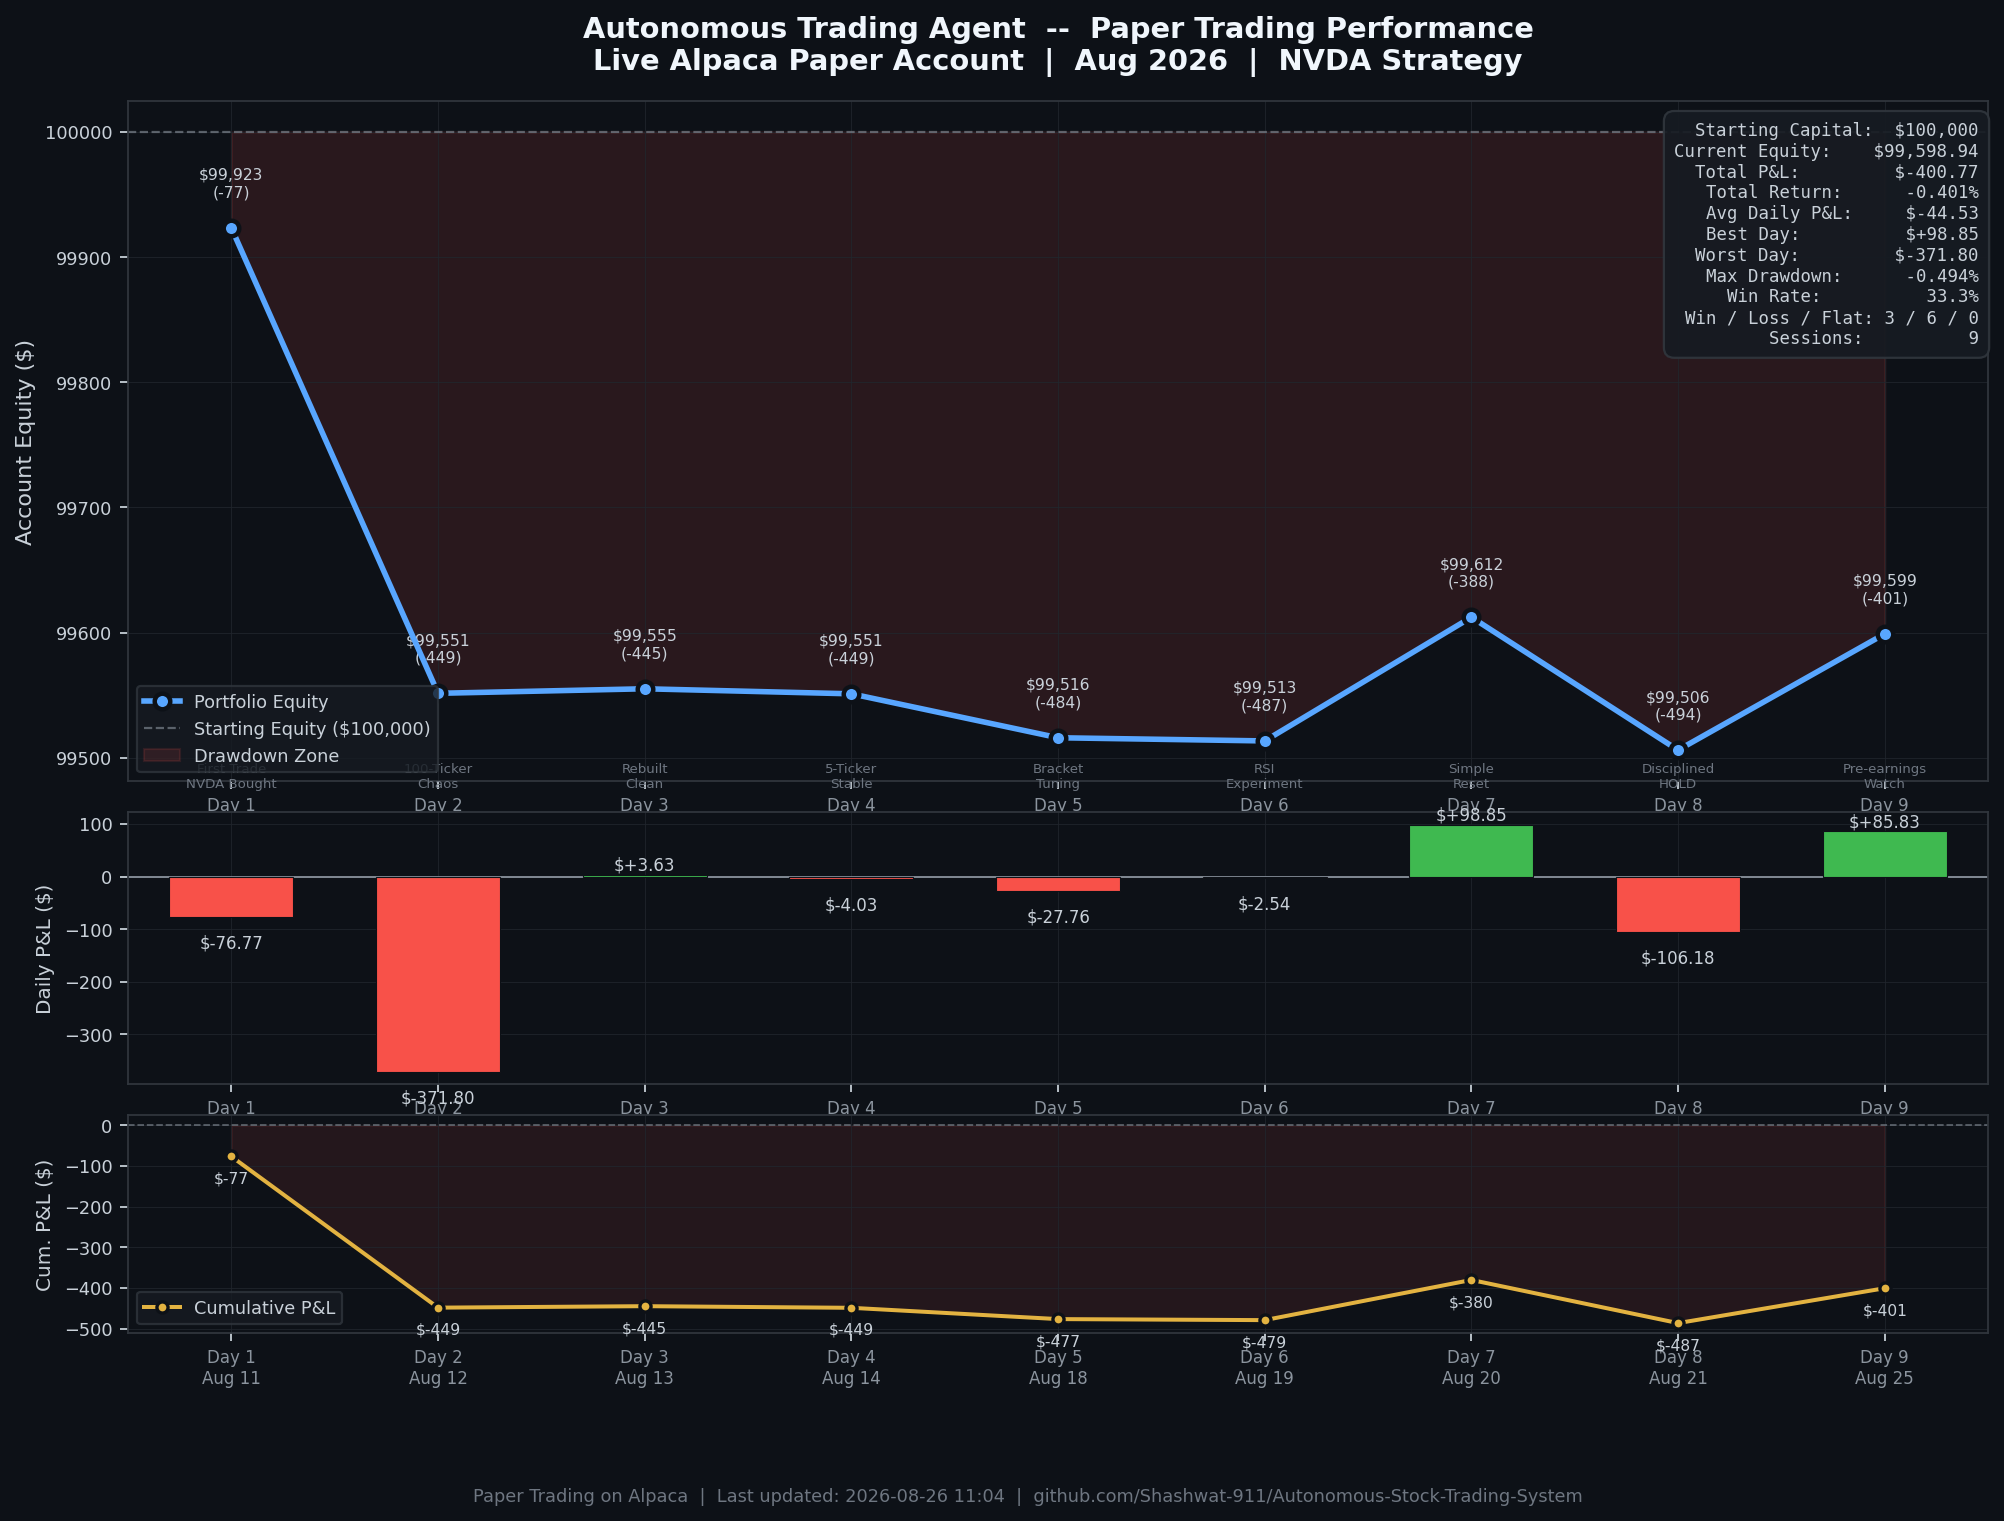
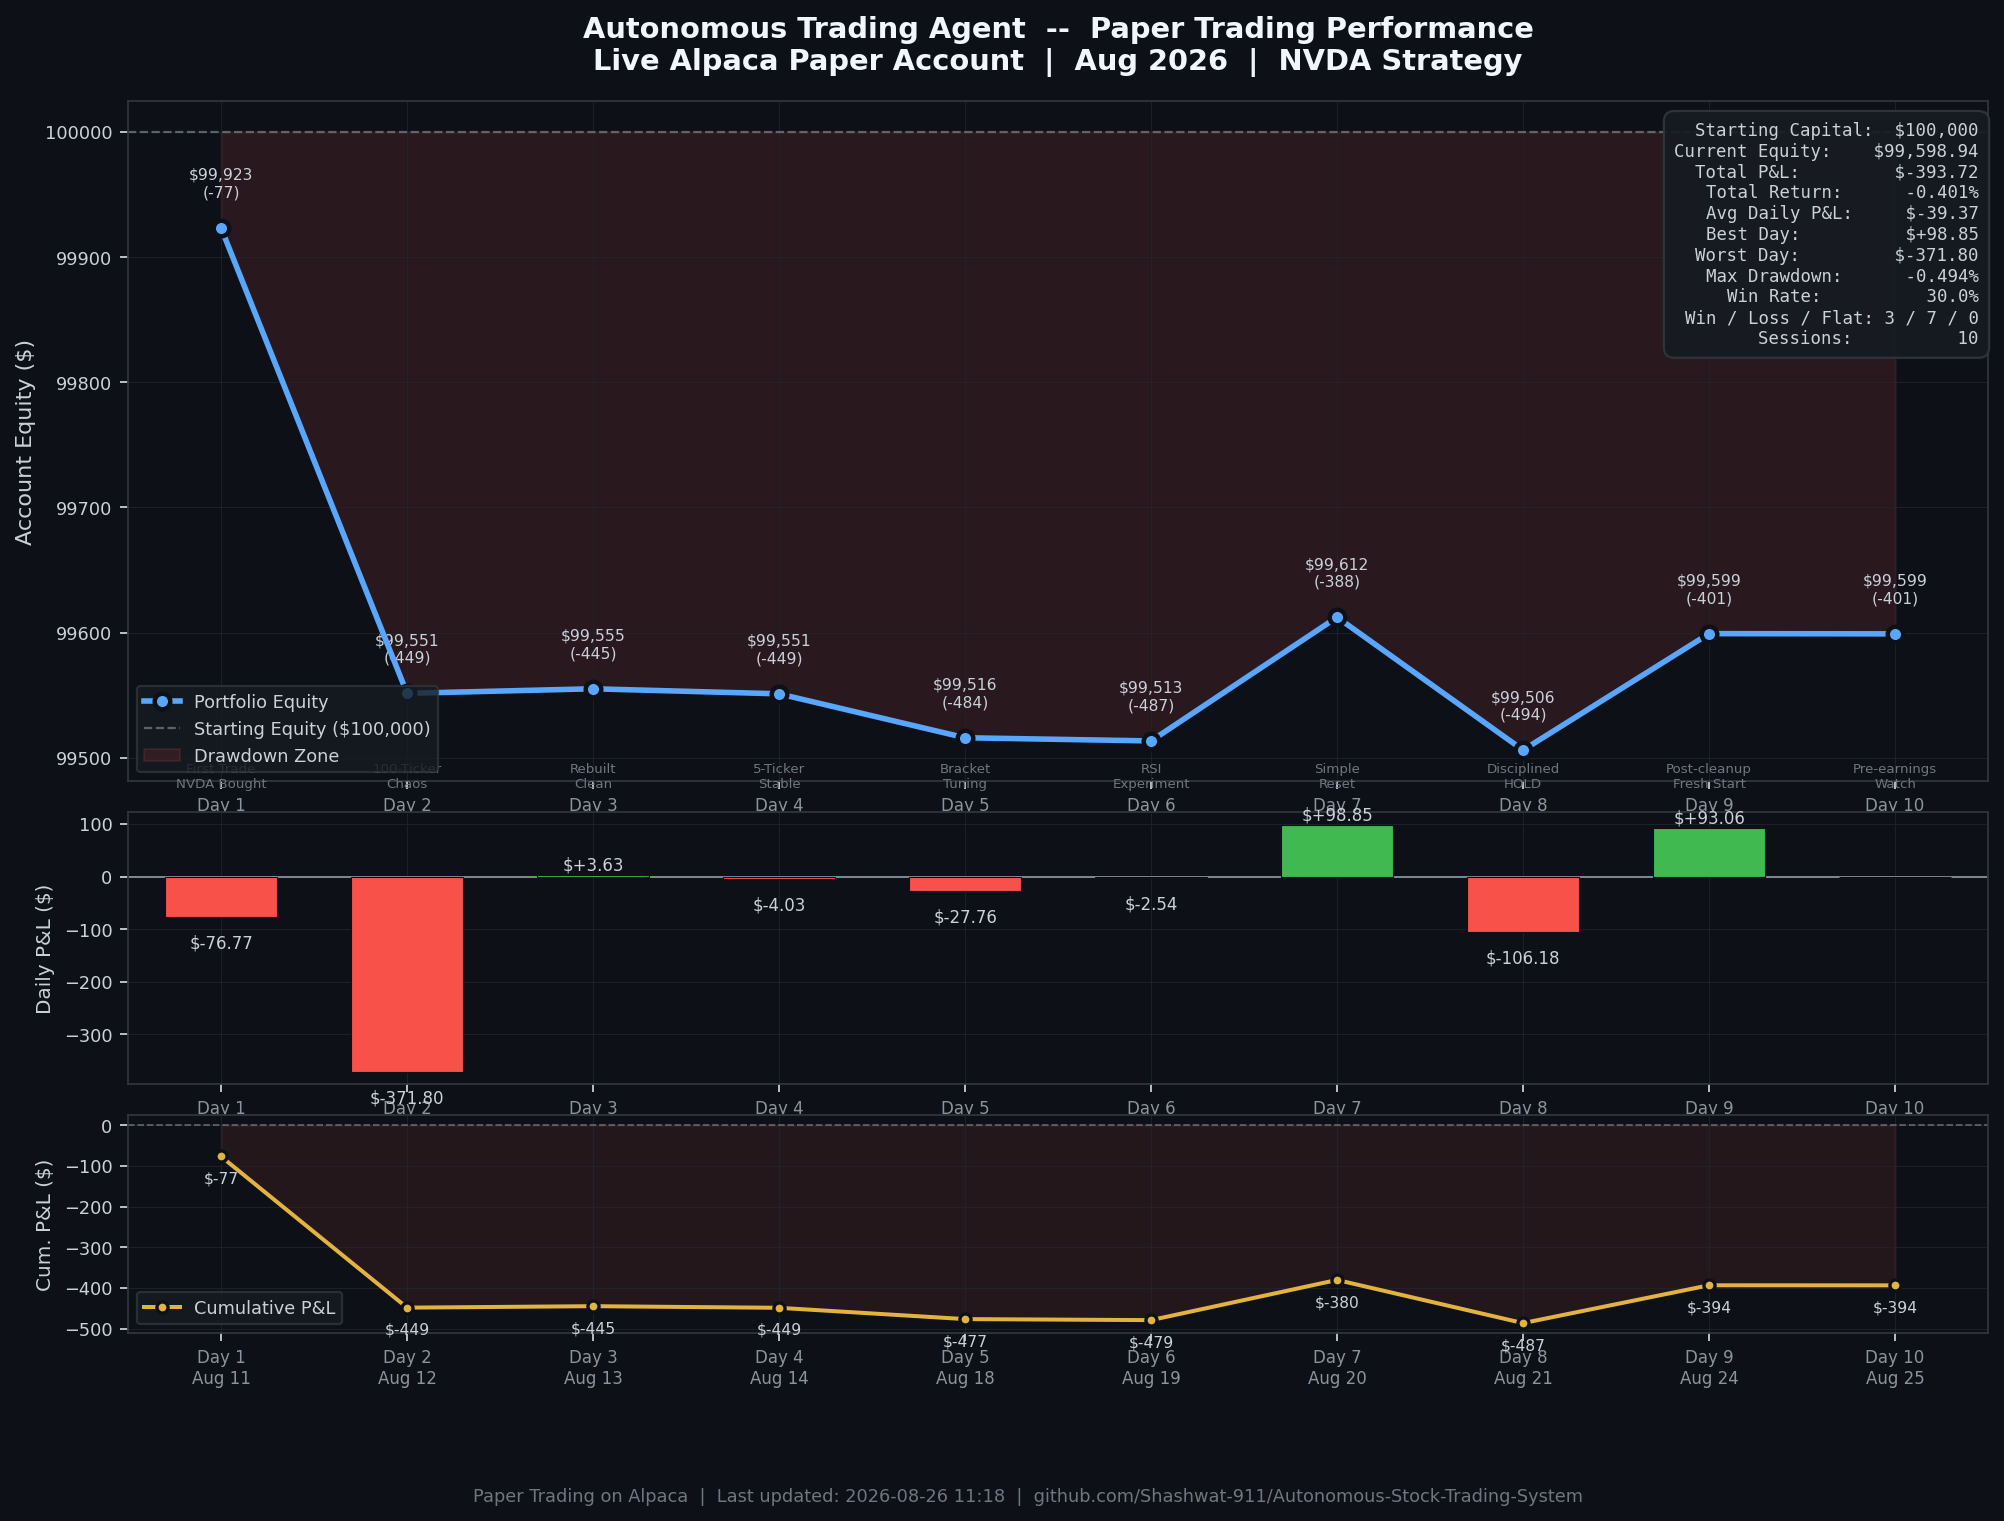
fix(data): split Day 9 into Aug 24 (Mon, +93.06) and Aug 25 (Tue, -0.18) from session logs

diff --git a/README.md b/README.md
@@ -48,9 +48,10 @@ An autonomous, production-grade algorithmic trading system and quantitative rese
 | **Day 6** | Aug 19 (Wed) | $99,513.39 | -$2.54 | -$479.27 | -0.479% | RSI Experiment |
 | **Day 7** | Aug 20 (Thu) | $99,612.24 | **+$98.85** | -$380.42 | -0.380% | **Simple Reset — Profitable** |
 | **Day 8** | Aug 21 (Fri) | $99,506.06 | -$106.18 | -$486.60 | -0.487% | Disciplined HOLD |
-| **Day 9** | Aug 25 (Tue) | $99,598.94 | **+$85.83** | -$400.77 | -0.401% | **Pre-earnings Watch — Profitable** |
+| **Day 9** | Aug 24 (Mon) | $99,599.12 | **+$93.06** | -$393.54 | -0.394% | **Post-cleanup Fresh Start — Profitable** |
+| **Day 10** | Aug 25 (Tue) | $99,598.94 | -$0.18 | -$393.72 | -0.394% | Pre-earnings Watch |
 
-> **Current Equity**: $99,598.94 &nbsp;|&nbsp; **Total P&L**: -$400.77 &nbsp;|&nbsp; **Best Day**: +$98.85 (Day 7) &nbsp;|&nbsp; **Win Rate**: 33.3% (3W / 6L) &nbsp;|&nbsp; **Max Drawdown**: -0.494% &nbsp;|&nbsp; **Sessions**: 9
+> **Current Equity**: $99,598.94 &nbsp;|&nbsp; **Total P&L**: -$393.72 &nbsp;|&nbsp; **Best Day**: +$98.85 (Day 7) &nbsp;|&nbsp; **Win Rate**: 30.0% (3W / 6L / 1 Flat) &nbsp;|&nbsp; **Max Drawdown**: -0.494% &nbsp;|&nbsp; **Sessions**: 10
 
 > Chart auto-generated from live Alpaca Portfolio History API via `scripts/generate_pnl_chart.py`
 
